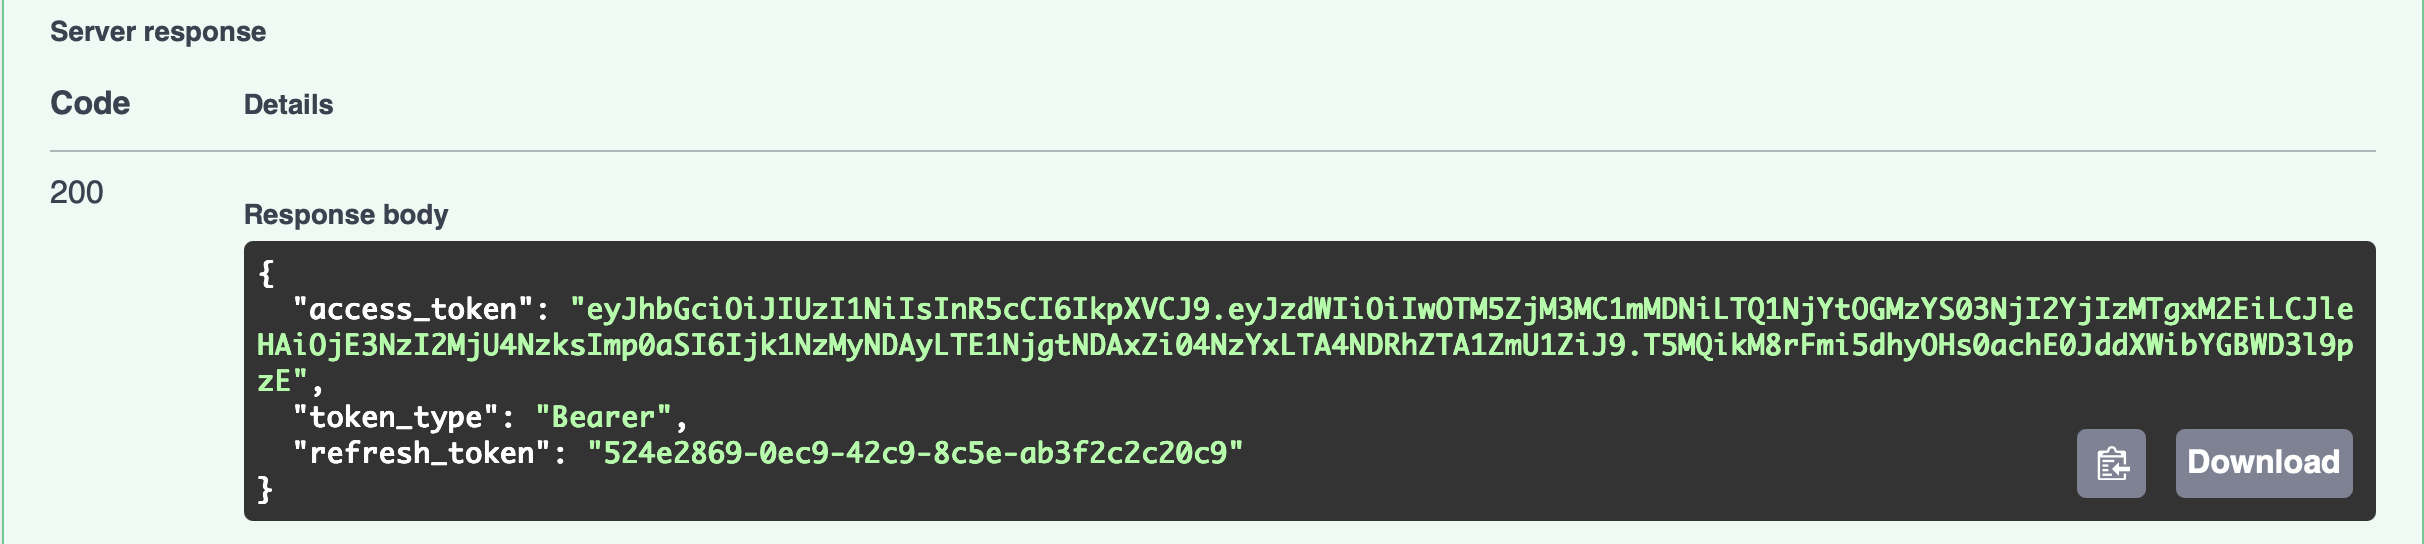
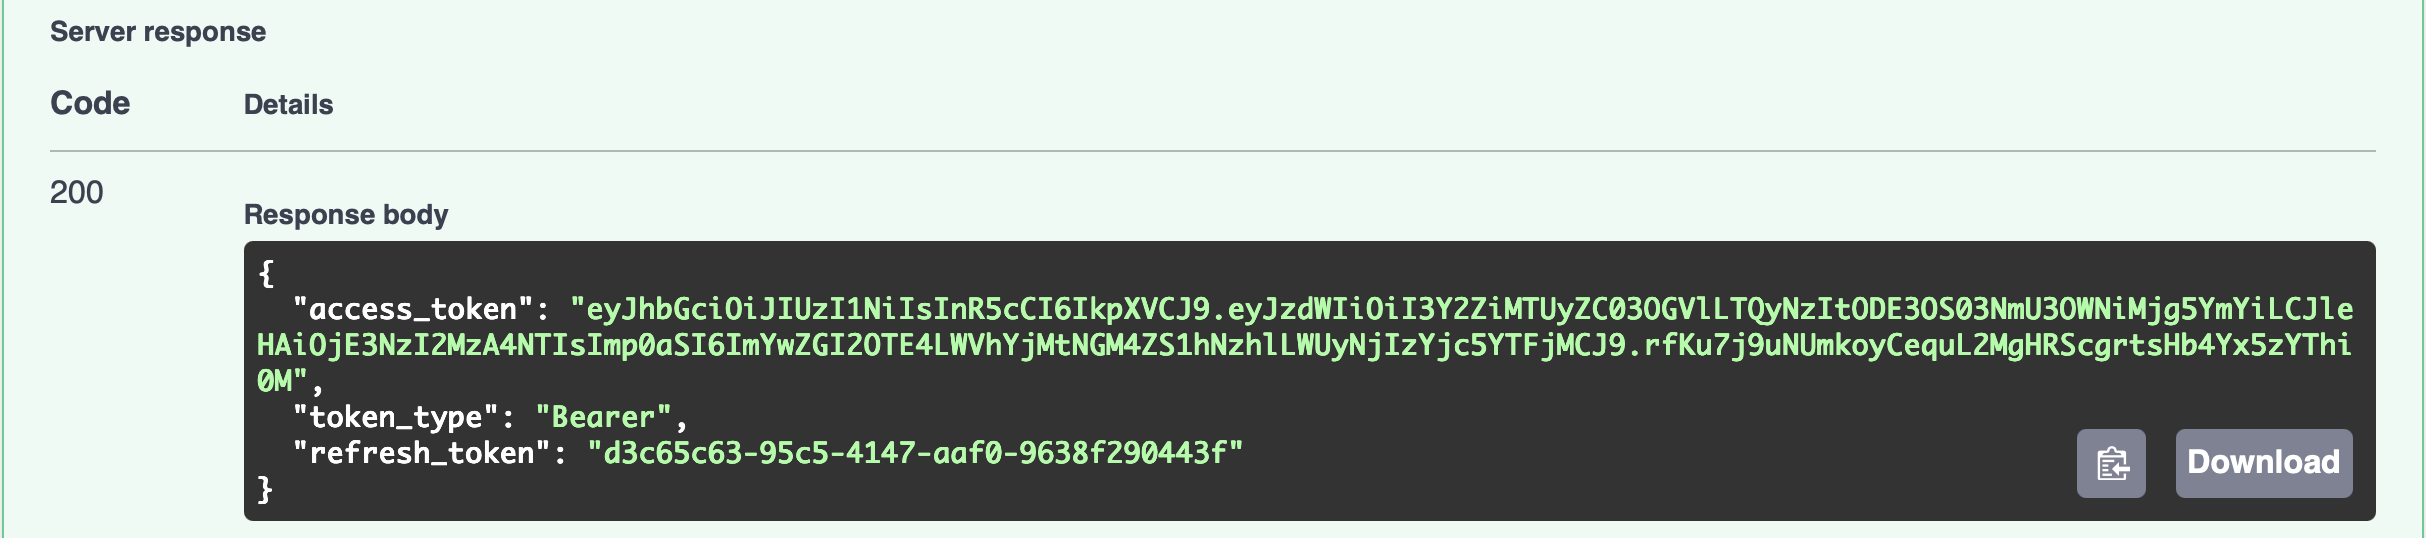
finish demo flow in readme

diff --git a/README.md b/README.md
@@ -279,7 +279,7 @@ Click on 'Try it out' and fill in the following fields of the request body:
 - *address*: ❎ optional
 - *password*: ❗required (password must be at least 8 characters long and include at least a lowercase letter, a uppercase letter, a number and a special character)
 
-Copy email and password and save them.
+Copy email and password and save them. Save the refresh token as well, it will be useful to manually refresh the access token (expires after 15 minutes).
 
 The response should look like this:
 
@@ -298,6 +298,94 @@ Click on the green 'Authorize' button on the top right corner and enter email an
 Go to 'GET /students/me' endpoint and try to make a request.
 
 It should return something like this:
+
+![Student info](/assets/screenshots/get_student_response.png)
+
+### 4. Create new company and internship agreement
+
+Go back to [phpMyAdmin](http://localhost:8080) and open 'companyindb' table.
+
+Create a new company with the following fields:
+
+- *company_id*: ⚡ automatically generated
+- *name*: ❗required
+- *city*: ❗required
+- *address*: ❗required
+- *tutor*: ❎ optional 
+- *created_at*: ⚡ automatically generated
+
+Open the 'internshipagreementindb' table and create a new agreement with the following fields:
+
+- *total_hours*: ❗required
+- *attended_hours*: ❎ optional => automatically updated whenever a new entry is created/deleted
+- *start_date*: ❗required
+- *is_active*: ⚙ default value = 0 (False) => set it to 1 (True) so that it is already possible to create new entries* 
+- *agreement_id*: ⚡ automatically generated
+- *student_id*: ❗required (manually select from the dropdown)
+- *company_id*: ❗required (manually select from the dropdown)
+- *created_at*: ⚡ automatically generated
+
+*Usually, a new agreement is created in advance with a future start date, until which it is not possible for the student to create new entries. The agreement automatically activates via cronjob at the start date. That is why the default value is 0 (False).
+
+Go back to the [API docs](http://localhost:8000/docs) page and execute a request to the 'GET /internship-agreements/' endpoint.
+
+A list with agreements owned by the student should be returned:
+
+![Student agreements list](/assets/screenshots/get_agreement_list_response.png)
+
+Copy the agreement_id and save it.
+
+⚠ **Warning**: if, by now, the access token has expired (the server response is 401 - Unauthorized), you need to log in again (click on the green 'Authorize' button, logout and login again with the student credentials). Since the FastApi docs automatically save access and refresh token through the OAuth2 form, it is not possible to manually extract the refresh token and pass it to the 'POST /auth/refresh' endpoint to get a new pair. Hence, logging out and then back in is the only way of testing the flow through the docs.
+
+### 5. Create an internship entry 
+
+Create a new internship entry at 'POST /internship-agreements/{agreement_id}/entries' endpoint, passing the agreement_id as a parameter.
+The required fields are:
+
+![Create new entry](/assets/screenshots/create_entry.png)
+
+- *entry_date*: ❗required => must be previous or equal to the current date and not go back more than 7 days
+- *start_time*: ❗required 
+- *end_time*: ❗required => must be greater than the start time (obviously)
+- *shift_type*: ❗required => choose between 'in_office' or 'remote'
+- *description*: ❗required => max_length=150
+- *agreement_id*: ❗required 
+
+The response should be:
+
+![Entry creation response](/assets/screenshots/create_entry_response.png)
+
+Now check the 'GET /internship-agreements/{agreement_id}/entries' endpoint, passing in the agreement id and pressing 'execute'.
+A list of entries (just the one we created, for now) should be available:
+
+![Entries list](/assets/screenshots/get_agreem_entries.png)
+
+Copy the entry id and save it.
+
+### 6. Delete an internship entry
+
+Go to the 'DELETE /internship-agreements/{agreement_id}/entries/{entry_id}' endpoint and pass both the agreement_id and the entry_id parameters.
+
+![Delete entry](/assets/screenshots/delete_entry.png)
+
+The response is the following:
+
+![Entry deletion response](/assets/screenshots/delete_entry_response.png)
+
+Now, if you go back and check again 'GET /internship-agreements/{agreement_id}/entries' endpoint, you should find an empty list:
+
+![Empty entries list](/assets/screenshots/empty_entries_list.png) 
+
+### 7. Logout
+
+Go to the 'POST /auth/logout' endpoint in the docs and click 'execute'.
+
+![Logout](/assets/screenshots/logout.png)
+
+![Logout response](/assets/screenshots/logout%20response.png)
+
+
+
 
 
 
